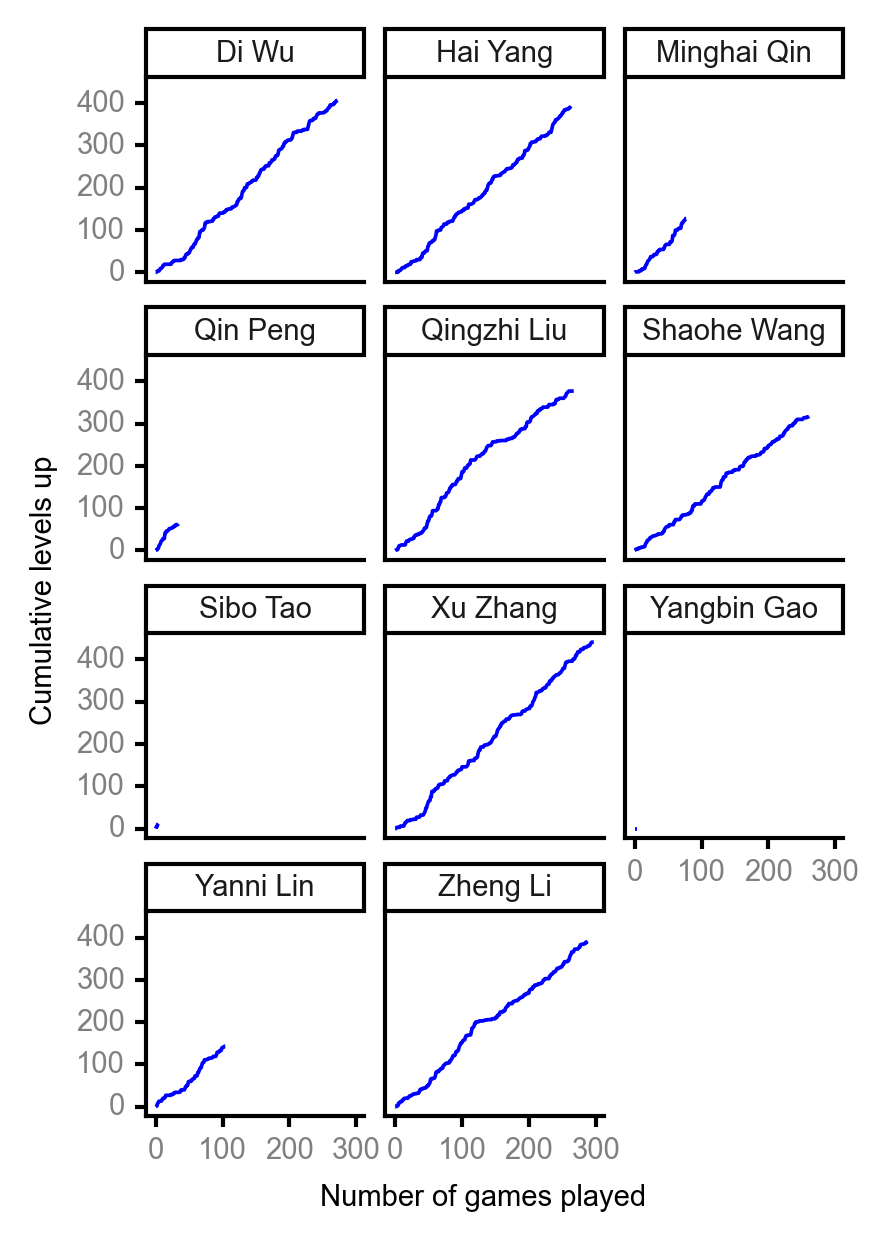
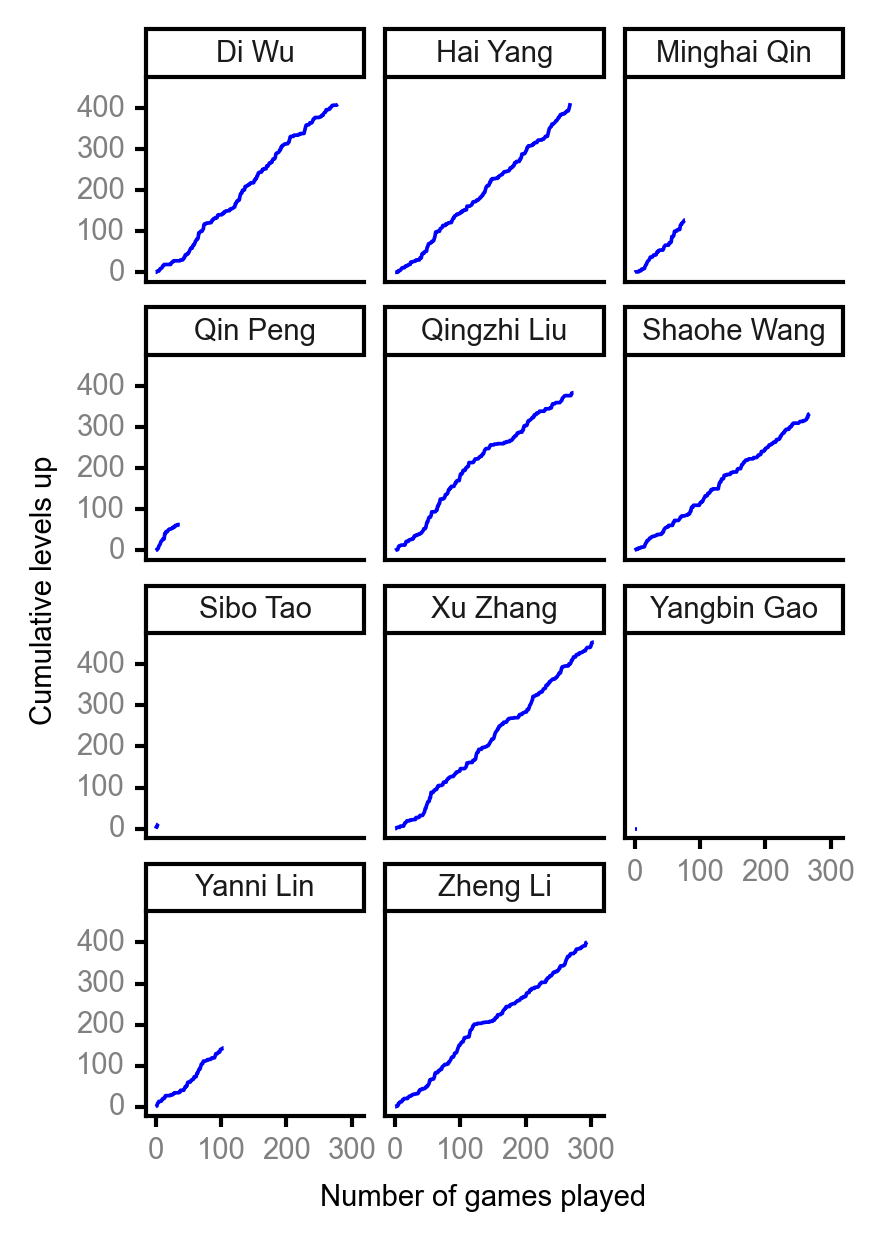
update player stats

diff --git a/player_stats.md b/player_stats.md
@@ -3,7 +3,7 @@ layout: player_stats
 title: Player Statistics
 author: Shaohe Wang
 author_url: https://scholar.google.com/citations?user=R_-kJV4AAAAJ&hl=en
-date: 2021-06-12
+date: 2021-06-26
 ---
 
 #### [Spreadsheet](https://docs.google.com/spreadsheets/d/1So3PBr9gV3I0LzApZOgJlQew2QjM1wAiWhR50rAnHRg/edit#gid=2137801449)
@@ -14,15 +14,15 @@ date: 2021-06-12
 
 | <br><br><br>Rank | <br><br><br>Player | <br> Lifetime <br> levels <br> up | <br><br> Winning <br> rate | <br> Average <br> levels <br> up | <br> Total <br> games <br> played | Games <br> played <br> as <br> MVP | Games <br> played <br> as <br> dealer | N_games <br> short <br> staffed <br> as dealer | Winning <br> rate <br> as <br> dealer |
 |:---:|:---:|:---:|:---:|:---:|:---:|:---:|:---:|:---:|:---:|
-| 1 | Xu <br> Zhang | 441 | 54.4% | 2.72 | 298 | 19 | 58 | 2 | 46.6% |
-| 2 | Di <br> Wu | 407 | 49.1% | 3.04 | 273 | 33 | 46 | 0 | 50.0% |
-| 3 | Hai <br> Yang | 393 | 51.9% | 2.87 | 264 | 24 | 49 | 1 | 53.1% |
-| 4 | Zheng <br> Li | 392 | 53.6% | 2.53 | 289 | 15 | 46 | 1 | 56.5% |
-| 5 | Qingzhi <br> Liu | 377 | 49.6% | 2.83 | 268 | 15 | 47 | 4 | 46.8% |
-| 6 | Shaohe <br> Wang | 318 | 45.0% | 2.69 | 262 | 14 | 40 | 2 | 45.0% |
+| 1 | Xu <br> Zhang | 460 | 54.8% | 2.75 | 305 | 20 | 59 | 2 | 47.5% |
+| 2 | Di <br> Wu | 415 | 48.9% | 3.03 | 280 | 33 | 47 | 0 | 51.1% |
+| 3 | Hai <br> Yang | 413 | 52.4% | 2.93 | 269 | 25 | 50 | 1 | 54.0% |
+| 4 | Zheng <br> Li | 401 | 53.2% | 2.55 | 295 | 15 | 47 | 1 | 55.3% |
+| 5 | Qingzhi <br> Liu | 390 | 49.6% | 2.87 | 274 | 15 | 48 | 4 | 45.8% |
+| 6 | Shaohe <br> Wang | 333 | 45.4% | 2.73 | 269 | 14 | 42 | 3 | 45.2% |
 | 7 | Yanni <br> Lin | 144 | 47.6% | 2.88 | 105 | 10 | 11 | 2 | 36.4% |
 | 8 | Minghai <br> Qin | 127 | 52.6% | 3.10 | 78 | 1 | 11 | 1 | 72.7% |
-| 9 | Qin <br> Peng | 63 | 60.0% | 3.00 | 35 | 4 | 3 | 0 | 66.7% |
+| 9 | Qin <br> Peng | 69 | 57.9% | 3.14 | 38 | 4 | 3 | 0 | 66.7% |
 | 10 | Sibo <br> Tao | 14 | 80.0% | 3.50 | 5 | 0 | 0 | 0 | 0.0% |
 | 11 | Yangbin <br> Gao | 0 | 0.0% | 0.00 | 4 | 0 | 0 | 0 | 0.0% |
 
